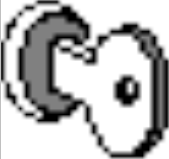
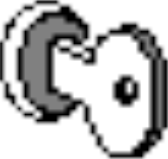
разукрасил

diff --git a/src/Form5.java b/src/Form5.java
@@ -22,12 +22,13 @@ public class Form5 extends javax.swing.JFrame {
             // Создаем двустороннюю связь между буферным изображением и классом рисования
             canvas = (Graphics2D) buff.getGraphics();
 
-//            canvas.setPaint(Color.GRAY); // Устанавливаем цвет рисования серым
-//            canvas.fillRect(0, 0, x, y); // Заливаем полотно для рисования
-//
-//            canvas.setPaint(Color.BLACK);  // Устанавливаем цвет рисования черным
-//            canvas.drawOval(100, 80, 90, 90);  // Отрисовываем большой овал
+            canvas.setPaint(Color.WHITE); // Устанавливаем цвет рисования серым
+            canvas.fillRect(0, 0, x, y); // Заливаем полотно для рисования
 
+            canvas.setPaint(Color.BLACK);  // Устанавливаем цвет рисования черным
+            
+//            canvas.drawOval(100, 80, 90, 90);  // Отрисовываем большой овал
+//
 //            canvas.drawArc(100, 115, 90, 30, 180, 180); // Отрисовываем дугу по середине овала
 //            //рисуем два мелньких круга сверху и снизу
 //            canvas.drawOval(140, 70, 10, 10);
@@ -39,26 +40,38 @@ public class Form5 extends javax.swing.JFrame {
             canvas.drawArc(178, 112, 80, 125, 200, 309); //inter/key (x, y, width, height, begin, end)            
             canvas.drawArc(194, 116, 70, 120, 86, -180); //ext/key (x, y, width, height, begin, end)
             canvas.drawArc(120, 114, 8, 10, 90, 90); //duga/key (x, y, width, height, begin, end)
-            canvas.drawArc(220, 159, 20, 31, 0, 360); //dira/key (x, y, width, height, begin, end)
+            canvas.drawOval(220, 159, 20, 31); //dira/key (x, y, width, height, begin, end)
             canvas.drawArc(227, 159, 20, 31, 112, 128); //dira/key/duga (x, y, width, height, begin, end)
             canvas.drawLine(120, 120, 120, 175); //(x1, y1, x2, y2) vertical 90*
             canvas.drawLine(124, 114, 186, 136); //(x1, y1, x2, y2) \1
             canvas.drawLine(120, 120, 184, 142); //(x1, y1, x2, y2) \2
             canvas.drawLine(120, 175, 180, 196); //(x1, y1, x2, y2) \3
             
+            //canvas.drawLine(164, 132, 280, 75); //test (x1, y1, x2, y2)
             
             
-            //устанавливаем стиль и пишим текст
-//            canvas.setFont(new Font("Tahoma", Font.BOLD | Font.ITALIC, 40));
-//            canvas.drawString("Java!", 85, 50);
+            
+            //устанавливаем стиль и пишем текст
+            canvas.setPaint(Color.BLUE);
+            canvas.setFont(new Font("Tahoma", Font.BOLD | Font.ITALIC, 18));
+            canvas.drawString("Вариант 18", 120, 20);
+            canvas.drawString("нарисовано средствами JAVA", 30, 340);
 
             try {
                 // При помощи созданной функции заливки закрашиваем две части главного овала
                 // и два маленьких кружка
-                fill(110, 110, Color.GRAY, Color.WHITE);
-                fill(140, 150, Color.GRAY, Color.RED);
-                fill(145, 75, Color.GRAY, Color.RED);
-                fill(145, 175, Color.GRAY, Color.WHITE);
+//                fill(110, 110, Color.GRAY, Color.WHITE);
+//                fill(140, 150, Color.GRAY, Color.RED);
+//                fill(145, 75, Color.GRAY, Color.RED);
+//                fill(145, 175, Color.GRAY, Color.WHITE);
+                
+                fill(225, 165, Color.WHITE, Color.GRAY); //key/dira/tolshina
+                fill(260, 168, Color.WHITE, Color.GRAY); //key/tolshina
+                fill(164, 132, Color.WHITE, Color.LIGHT_GRAY); //key/top
+                fill(164, 168, Color.WHITE, Color.LIGHT_GRAY); //key/left
+                fill(94, 168, Color.WHITE, Color.GREEN); //zamok
+                fill(64, 168, Color.WHITE, Color.ORANGE); //zamok/tolshina
+                //fill(234, 168, Color.WHITE, Color.YELLOW); //key/dira                
             } catch (Exception ex) {
             }
         }
@@ -101,7 +114,6 @@ public class Form5 extends javax.swing.JFrame {
     // <editor-fold defaultstate="collapsed" desc="Generated Code">//GEN-BEGIN:initComponents
     private void initComponents() {
 
-        jLabel1 = new javax.swing.JLabel();
         jPanel1 = new MyPicture();
 
         setDefaultCloseOperation(javax.swing.WindowConstants.EXIT_ON_CLOSE);
@@ -109,10 +121,6 @@ public class Form5 extends javax.swing.JFrame {
         setIconImage(java.awt.Toolkit.getDefaultToolkit().createImage(getClass().getResource("icon.png")));
         setResizable(false);
         getContentPane().setLayout(null);
-
-        jLabel1.setIcon(new javax.swing.ImageIcon(getClass().getResource("/task.png"))); // NOI18N
-        getContentPane().add(jLabel1);
-        jLabel1.setBounds(20, 360, 301, 47);
 
         jPanel1.setBackground(new java.awt.Color(244, 243, 234));
 
@@ -130,7 +138,7 @@ public class Form5 extends javax.swing.JFrame {
         getContentPane().add(jPanel1);
         jPanel1.setBounds(0, 0, 360, 350);
 
-        setSize(new java.awt.Dimension(369, 467));
+        setSize(new java.awt.Dimension(369, 380));
         setLocationRelativeTo(null);
     }// </editor-fold>//GEN-END:initComponents
 
@@ -173,7 +181,6 @@ public class Form5 extends javax.swing.JFrame {
         });
     }
     // Variables declaration - do not modify//GEN-BEGIN:variables
-    private javax.swing.JLabel jLabel1;
     private javax.swing.JPanel jPanel1;
     // End of variables declaration//GEN-END:variables
 }

diff --git a/README.md b/README.md
@@ -1,6 +1,6 @@
 # Вариант 18
-<img src="screenshots/prototype.png" width="100">
-
-![1](screenshots/Screenshot_2021-09-28_11-06-15.png)
+<img src="screenshots/prototype.png" width=40%><br>
+<img src="screenshots/Screenshot_2021-09-28_11-06-15.png">
+<img src="screenshots/Screenshot_2021-09-29_06-51-00.png" align=top>
 ![2](screenshots/Screenshot_2021-09-28_11-07-48.png)
 ![3](screenshots/Screenshot_2021-09-28_11-09-58.png)
